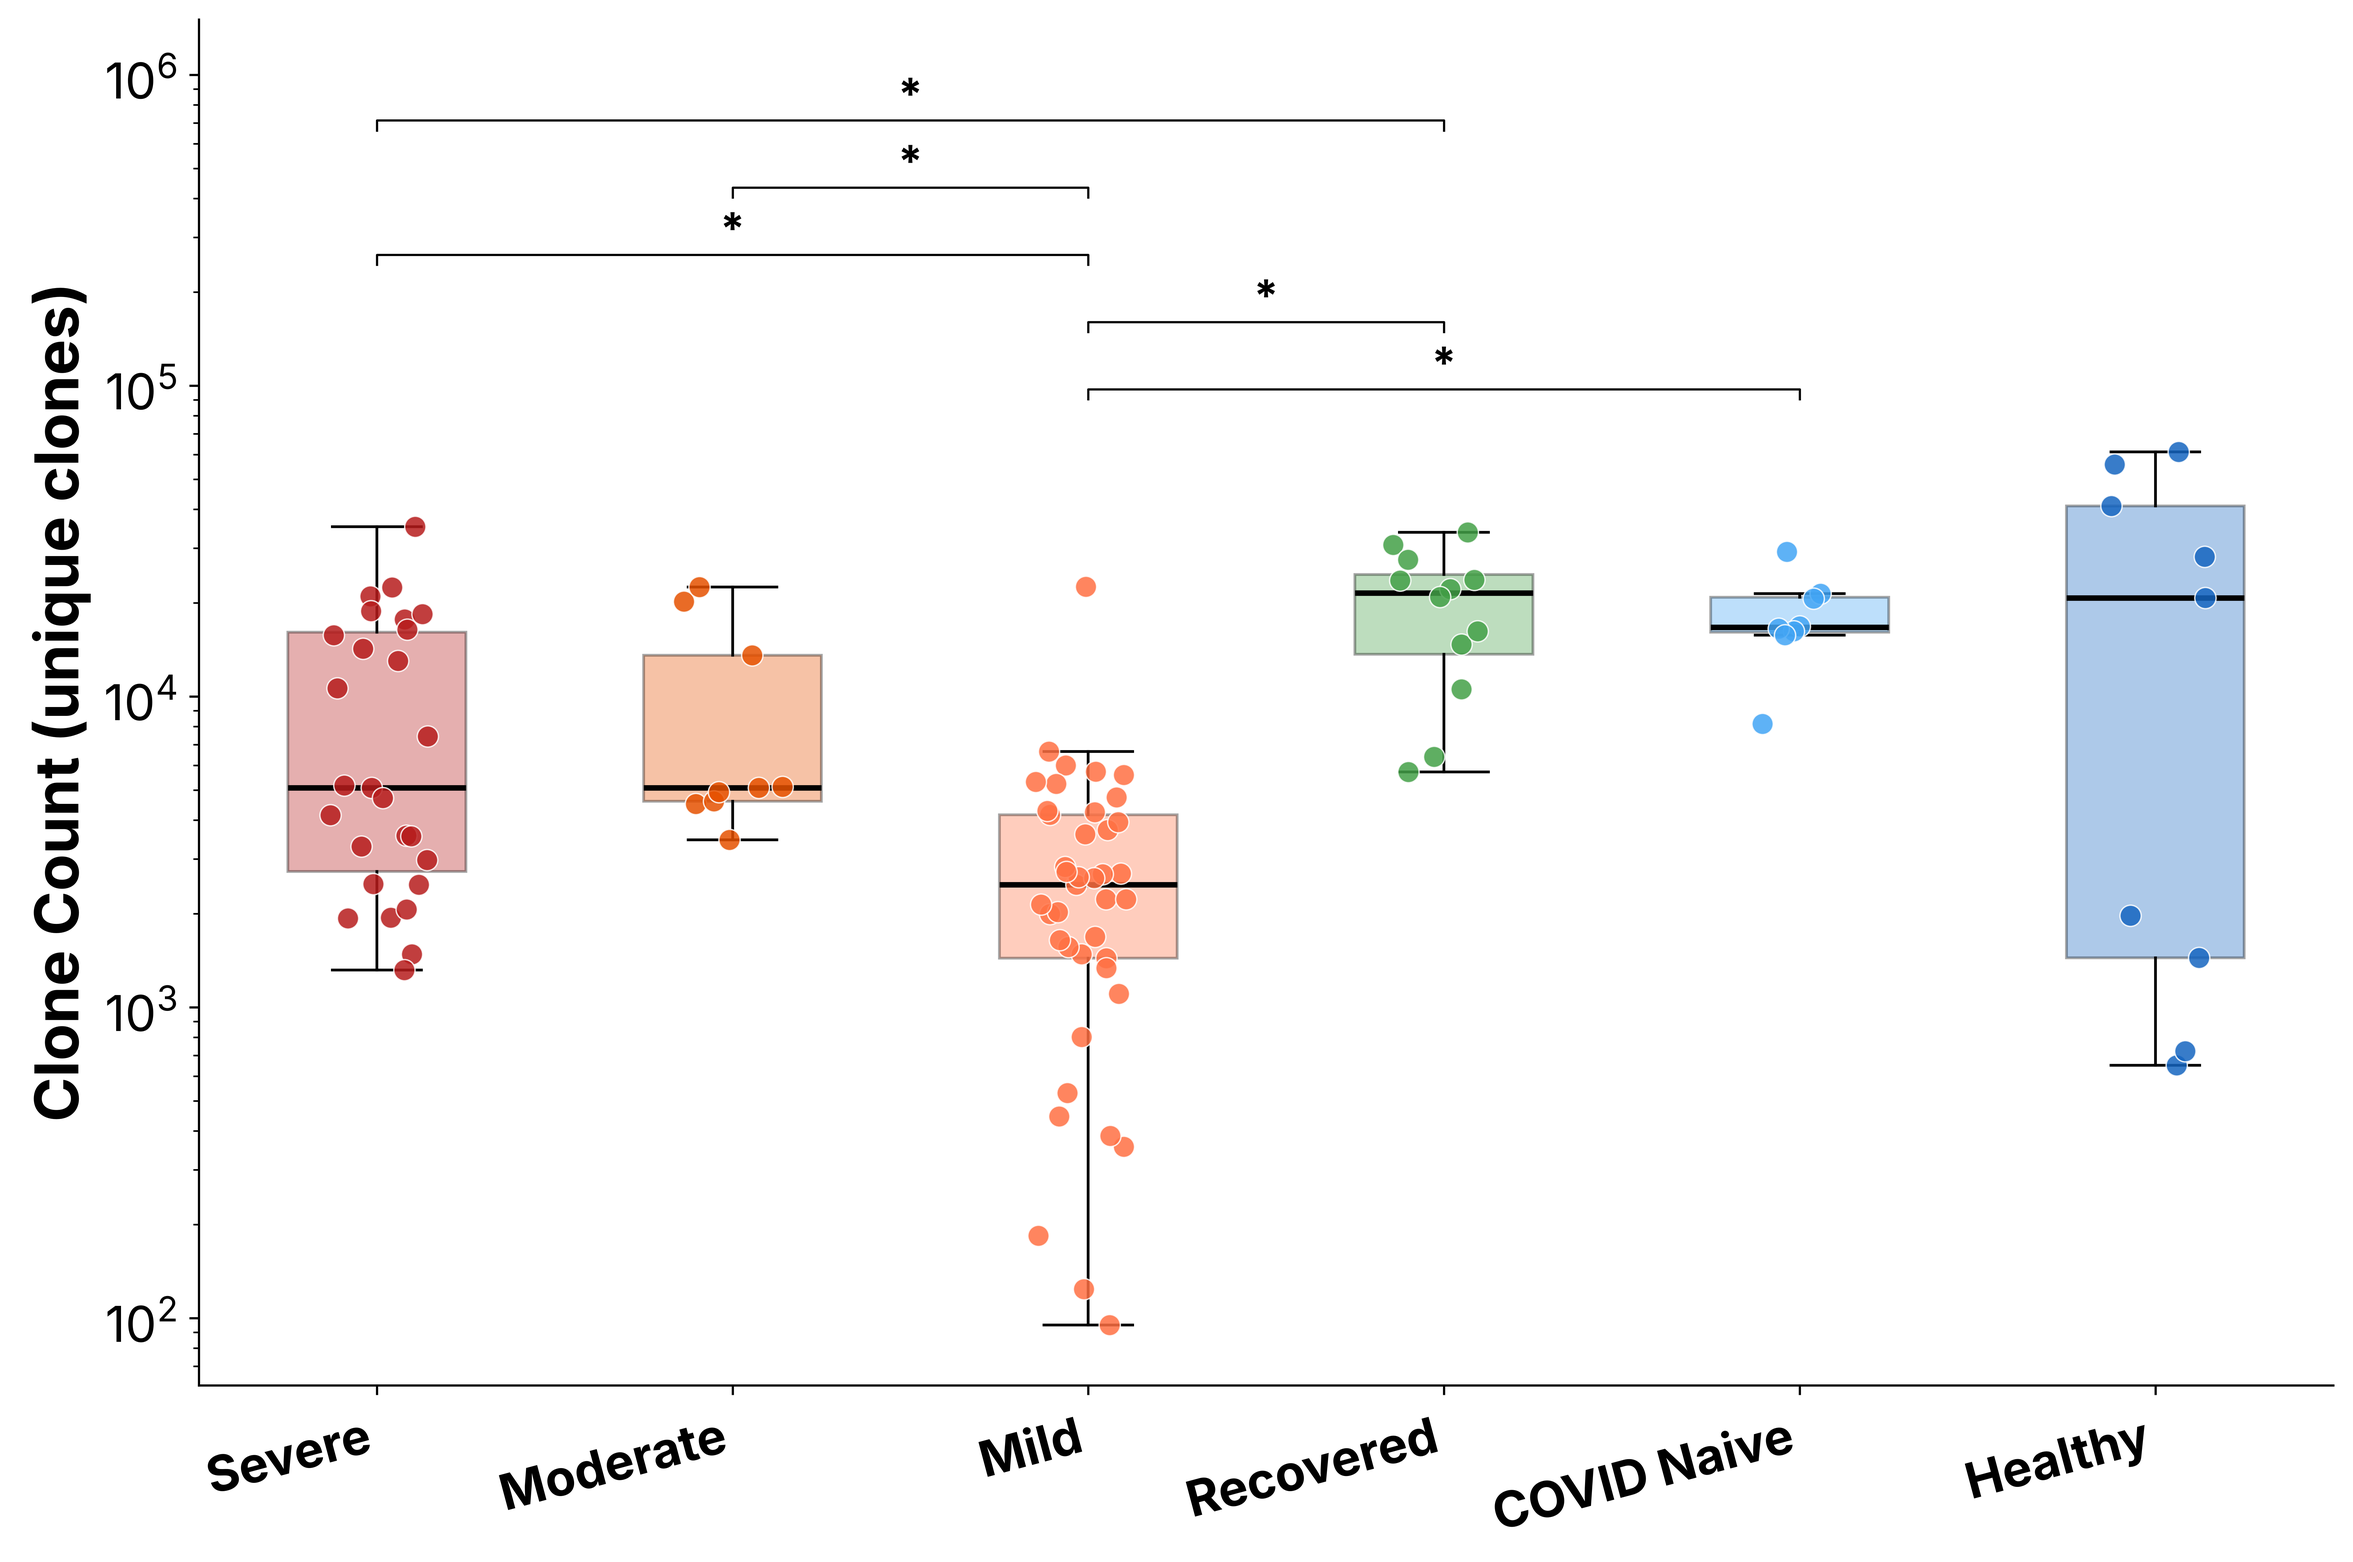
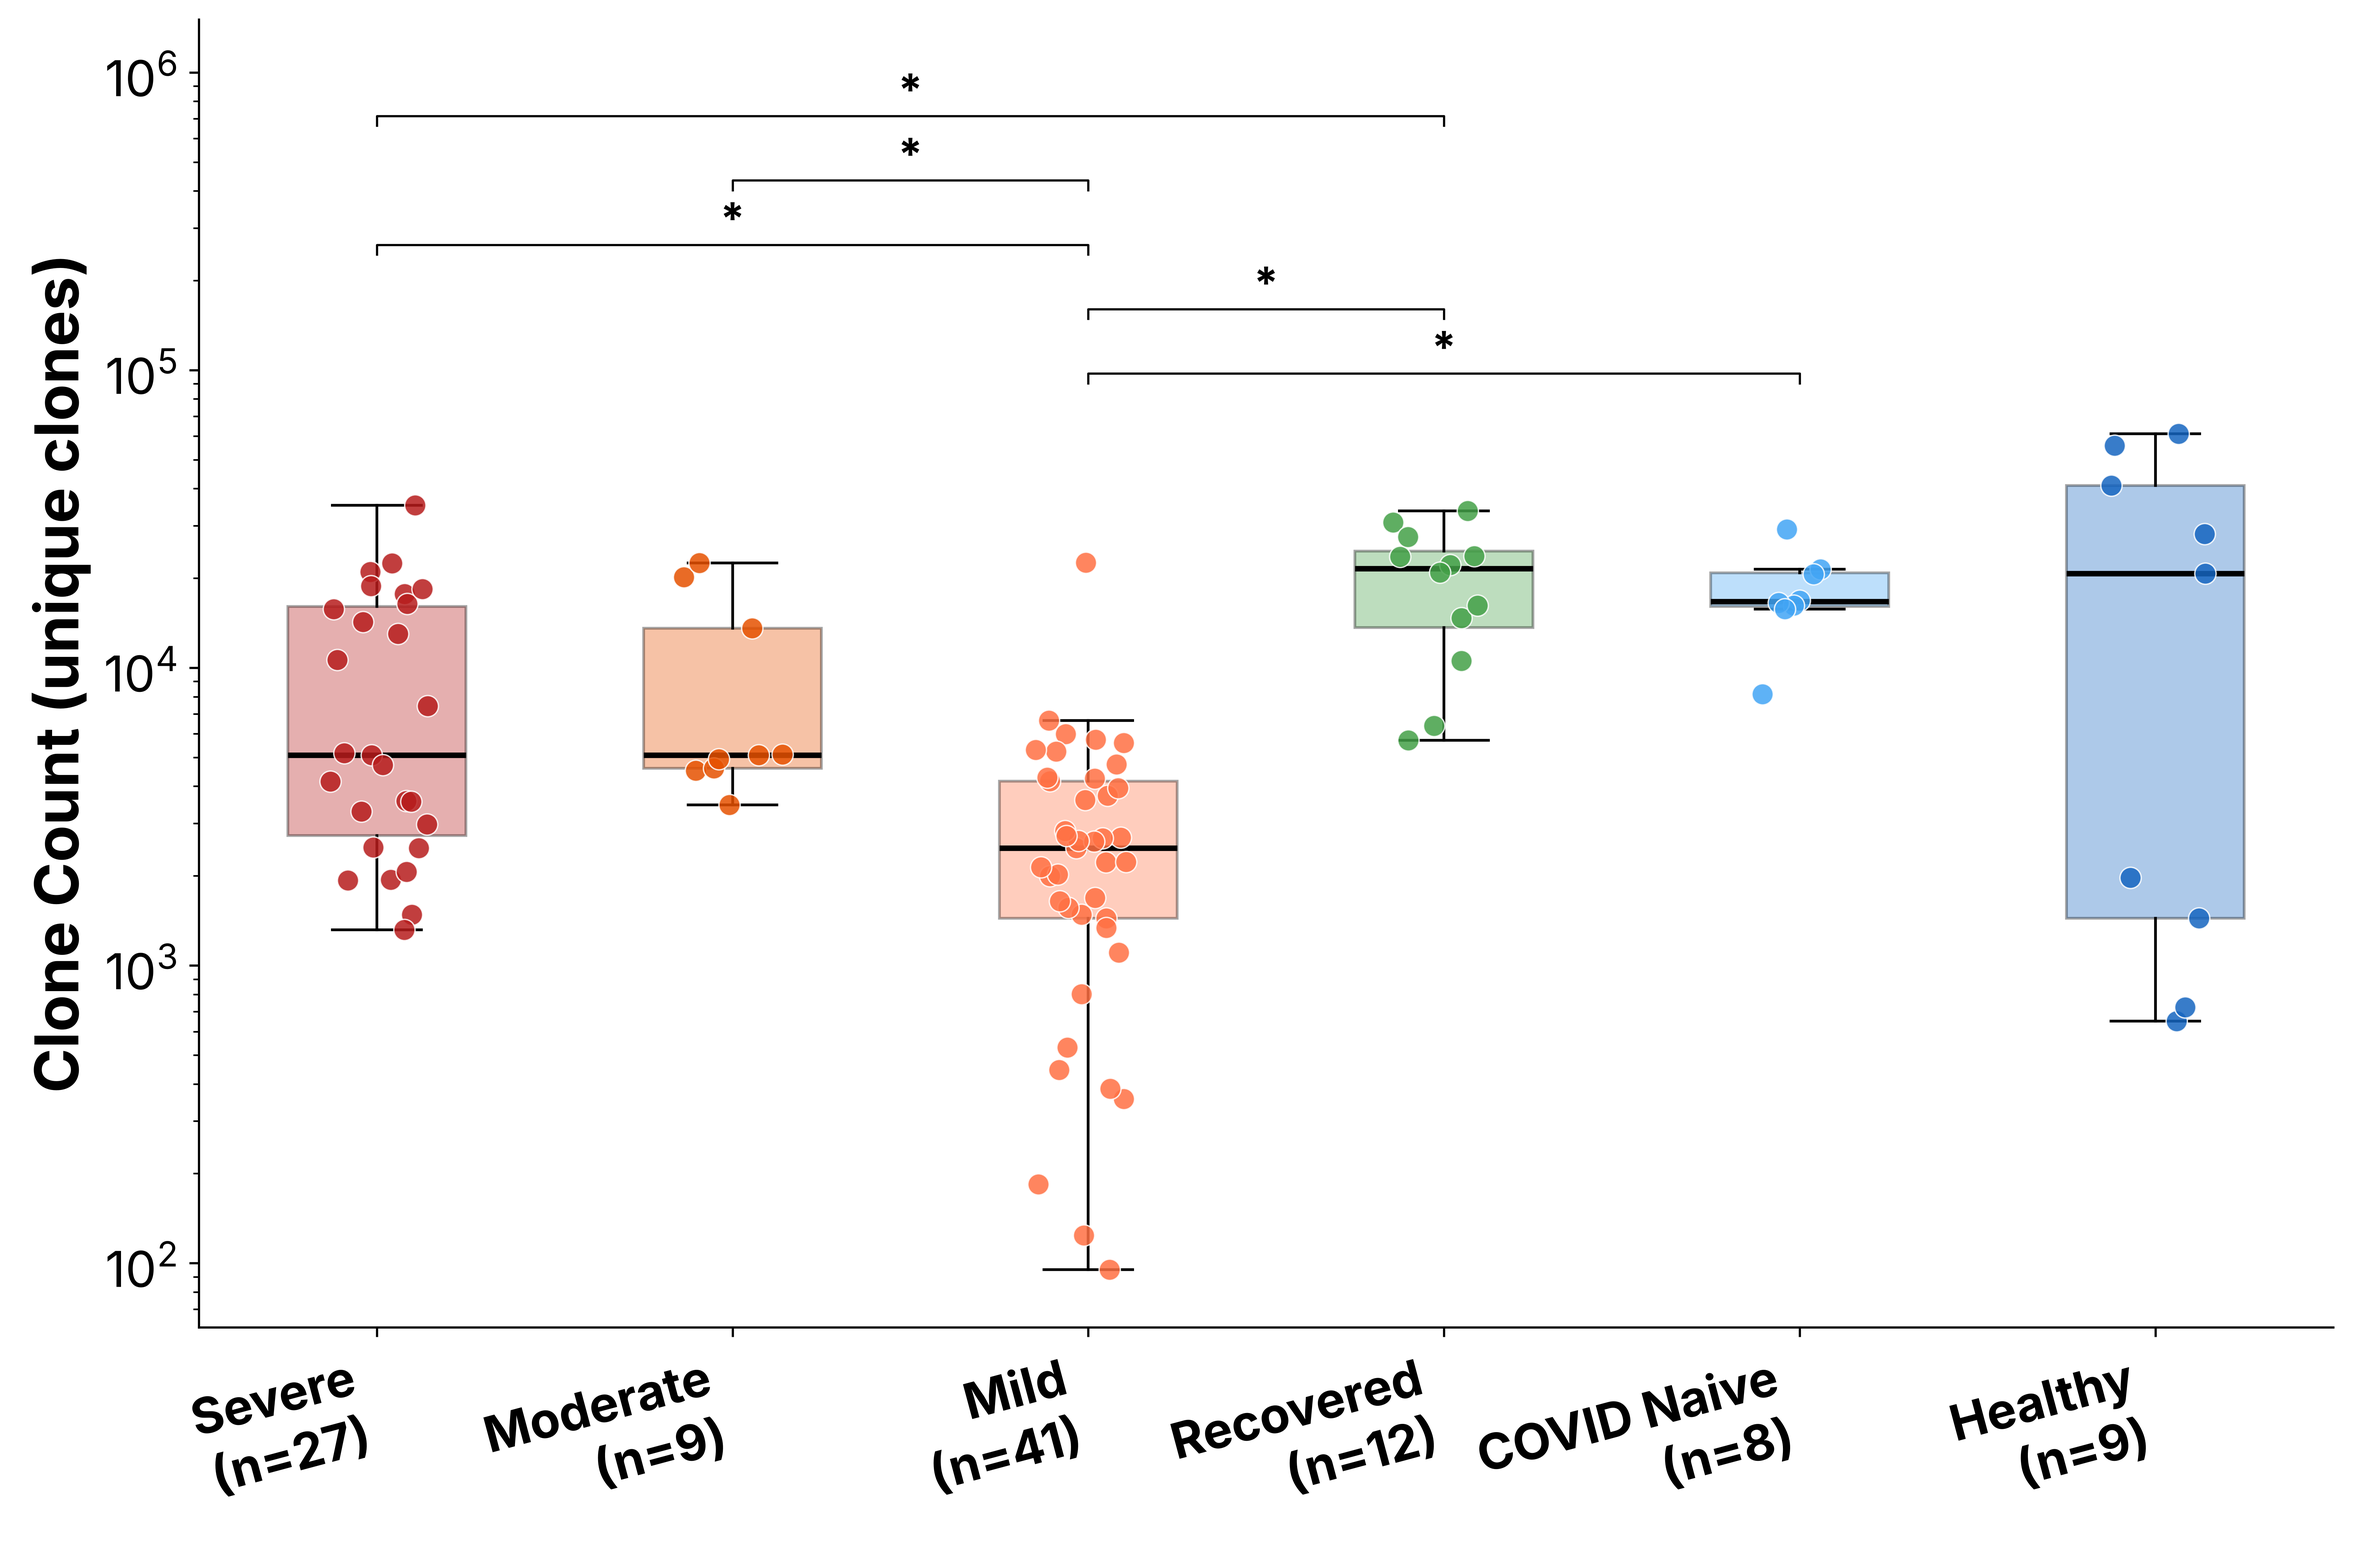
Add n= sample size labels to clone count figure x-axis
Claude-Session: https://claude.ai/code/session_01D55fsgxxDUfDTuPfRhF34U

diff --git a/immunedb_STATS_API/clonal_analysis/clone_count_fig.py b/immunedb_STATS_API/clonal_analysis/clone_count_fig.py
@@ -41,14 +41,10 @@ for i, d in enumerate(disease_order):
         ax.scatter([i + j for j in jitter], vals, color=colors[i], s=60, alpha=0.85,
                    zorder=3, edgecolors="white", linewidth=0.5)
 
-# Add sample sizes below x-axis
-for i, d in enumerate(disease_order):
-    n = len(clone_counts.get(d, []))
-    ax.text(i, ax.get_ylim()[0], f"n={n}", ha="center", va="top", fontsize=14, color="gray")
-
 ax.set_yscale("log")
 ax.set_xticks(range(len(disease_order)))
-ax.set_xticklabels(disease_order, fontsize=18, fontweight="bold", rotation=15, ha="right")
+labels = [f"{d}\n(n={len(clone_counts.get(d, []))})" for d in disease_order]
+ax.set_xticklabels(labels, fontsize=18, fontweight="bold", rotation=15, ha="right")
 ax.set_ylabel("Clone Count (unique clones)", fontsize=22, fontweight="bold")
 ax.tick_params(axis='y', labelsize=18)
 ax.spines["top"].set_visible(False)
